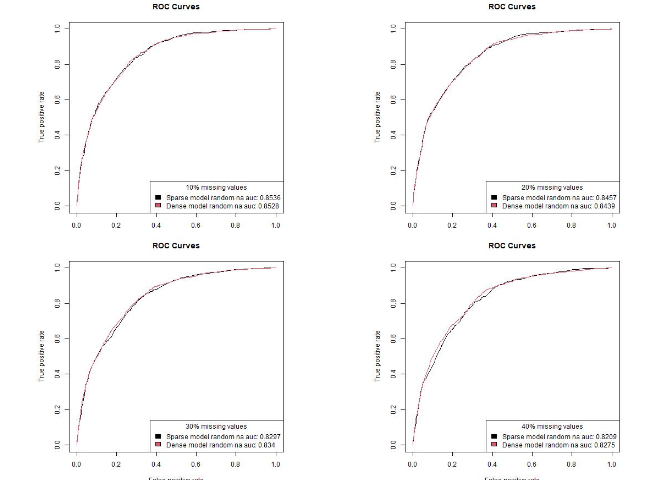
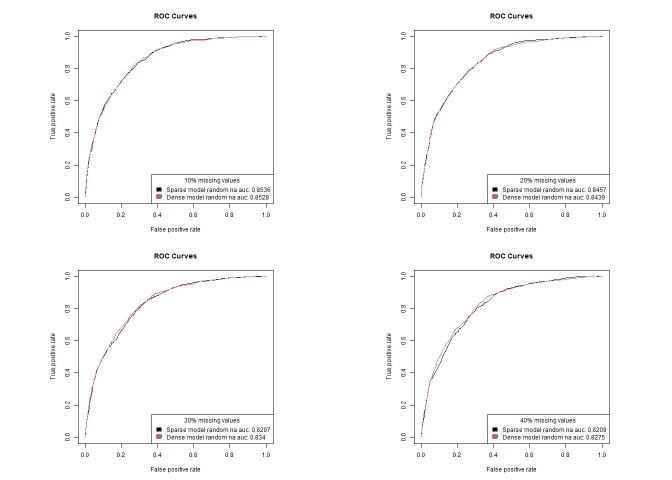
Sætter plots ordentlig

diff --git a/README.md b/README.md
@@ -1,17 +1,17 @@
 Readme
 ================
 
-### Formål
+## Formål
 
 Formålet med dette projekter er empirisk at undersøge og forstå visse
 grene af XGBoost algoritmen.
 
-#### Data
+### Data
 
 Til at undersøge XGBoost bruges følgende datasæt:  
 \- [Adult](https://rpubs.com/H_Zhu/235617)
 
-#### XGBoost og kategorisk data
+### XGBoost og kategorisk data
 
 Her er blevet trænet 3 xgboost modeller med binær target på features der
 alle er kategoriske på adult-datasættet. Forskellen på modellerne er
@@ -39,7 +39,7 @@ Til sidst er accuracy udregnet med et cutoff på 0.5 for hver model.
 2\. Model med one-hot encoded features: 0.8236  
 3\. Model med weight of evidens encoded features: 0.8312
 
-#### Sparse vs dense træningsdata
+### Sparse vs dense træningsdata
 
 Her er blevet trænet 2 modeller på identisk datagrundlag (hvor
 kategoriske features er one-hot-encoded). Forskellen ligger i
@@ -56,7 +56,7 @@ Træningstiden kan ses her:
 Som der kan ses er modellen tunet på sparse data omtrent 3 gange
 hurtigere end modellen tunet på dense data.
 
-#### Missing data
+### Missing data
 
 Xgboost kan som standard godt håndtere NA i data. Gain ved et split
 bliver udregnet ud fra data som ikke er NA og de resterende samples med
@@ -67,17 +67,17 @@ hvilket format data er i (sparse eller dense matrix). Her imputeres NA i
 data og det gøres først random og bagefter systematisk. Kategoriske
 features er one-hot-encoded.
 
-###### Random imputation af NA
+##### Random imputation af NA
 
 Her er 10%, 20%, 30% og 40% af data imputeret med NA. Her er trænet 2
 modeller på samme data og med samme random search grid (der kan
 naturligvis være forskel på hvilke parametre der er optimale) for hvert
-niveau af NA procentdelen. Det ene datasæt er encoded som en sparse
+niveau af NA procent-delen. Det ene datasæt er encoded som en sparse
 matrix og det andet som en dense matrix.
 
 En roc kurve med tilhørende auc værdier for hver af de 2 modeller ses i
 plottet.  
-![](README_files/figure-gfm/na%20random%20plots-1.png)<!-- -->
+<img src="./results/sparse_vs_dense_random_na_roc_plot_10_percent.jpg" width="50%" /><img src="./results/sparse_vs_dense_random_na_roc_plot_20_percent.jpg" width="50%" /><img src="./results/sparse_vs_dense_random_na_roc_plot_30_percent.jpg" width="50%" /><img src="./results/sparse_vs_dense_random_na_roc_plot_40_percent.jpg" width="50%" />
 
 Til sidst er accuracy udregnet med et cutoff på 0.5 for hver model.
 
@@ -90,14 +90,9 @@ Til sidst er accuracy udregnet med et cutoff på 0.5 for hver model.
 7.  Model med sparse encoding og 40% NA 0.8085
 8.  Model med dense encoding og 40% NA 0.8094
 
-<!--
-  1. Model med sparse data: 
-  0.8216   
-  2. Model med dense data:
-  0.8214
--->
+![](./results/sparse_vs_dense_random_na_roc_plot_10_percent.jpg)![](./results/sparse_vs_dense_random_na_roc_plot_20_percent.jpg)
 
-###### Systematisk imputation af NA
+##### Systematisk imputation af NA
 
 Her er xx % af data imputeret med NA. Her er trænet 2 modeller på samme
 data og med samme search grid (der kan naturligvis være forskel på
